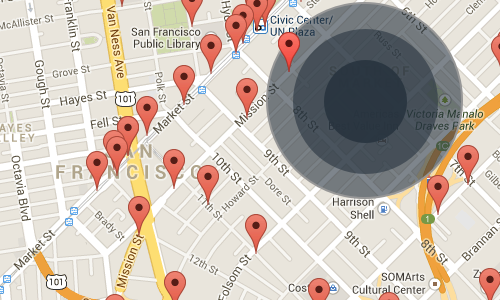
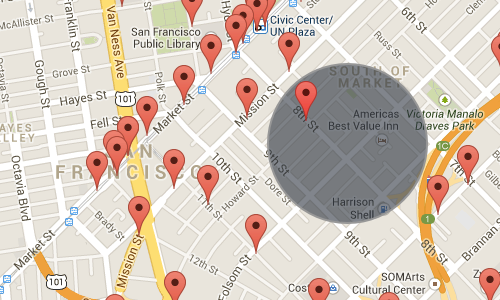
Change geo fencing image. Fix animation manager on load.

Changed region(s): [[0.51, 0.0, 0.93, 0.75]]

diff --git a/app/index.html b/app/index.html
@@ -174,6 +174,22 @@
         <div class="row">
           <div class="col-sm-6">
             <h3>Getting Started</h3>
+            <p>The first step to building your own transportation solution is signing up for PubNub. It is free and easy to get started and you can sign up using the link on the right.</p>
+          </div>
+          <div class="col-sm-6 text-center">
+            <a href="http://pubnub.com/get-started" target="_blank" class="btn btn-large btn-primary" style="margin-top: 30px">Free Sign Up</a>
+          </div>
+        </div>
+
+        <div class="row">
+          <div class="col-sm-12">
+            <br />
+          </div>
+        </div>
+
+        <div class="row">
+          <div class="col-sm-6">
+            <h3>Installing PubNub</h3>
             <p>Getting started is as easy as embedding the PubNub library into your HTML file. This is done via a script tag and also allows for selecting the specific version you would like to work with. Our library is served via a CDN for the guaranteed fastest performance download.</p>
           </div>
           <div class="col-sm-6">

diff --git a/app/scripts/animation_manager.js b/app/scripts/animation_manager.js
@@ -10,7 +10,7 @@ define([], function () {
         if (el) {
           animations[i] = {
             el: el,
-            y: el.getBoundingClientRect().top - (window.innerHeight >> 1)
+            y: el.getBoundingClientRect().top - (window.innerHeight >> 1) + (window.scrollTop || window.scrollY)
           };
         }
       });
@@ -34,6 +34,7 @@ define([], function () {
           }
         }
       };
+
       animate();
       window.addEventListener('scroll', function () {
         requestAnimationFrame(animate);

diff --git a/app/styles/main.scss b/app/styles/main.scss
@@ -203,8 +203,8 @@ body {
 
   .geo-alert {
     position: absolute;
-    top: 55px;
-    right: 115px;
+    top: 106px;
+    right: 136px;
     opacity: 0;
 
     &.animated {
